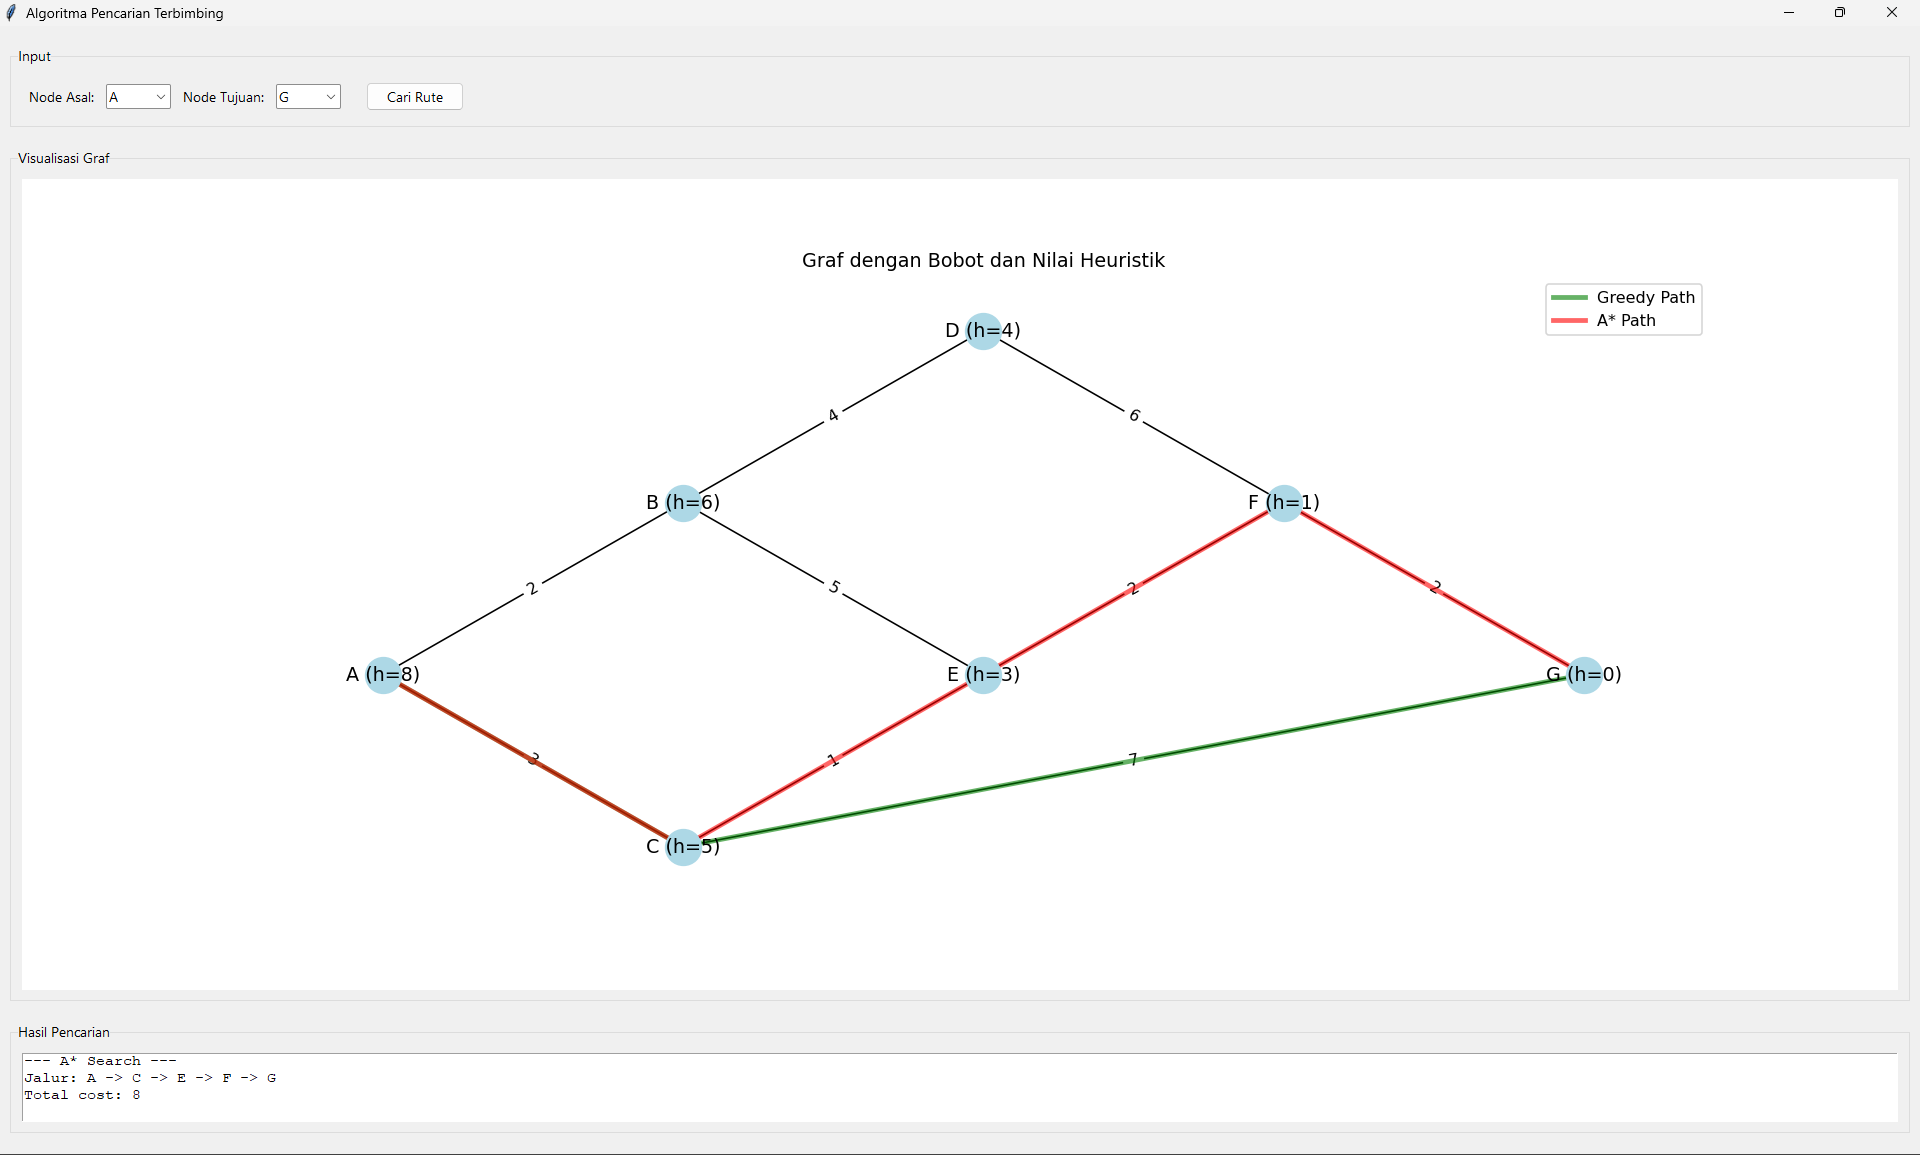
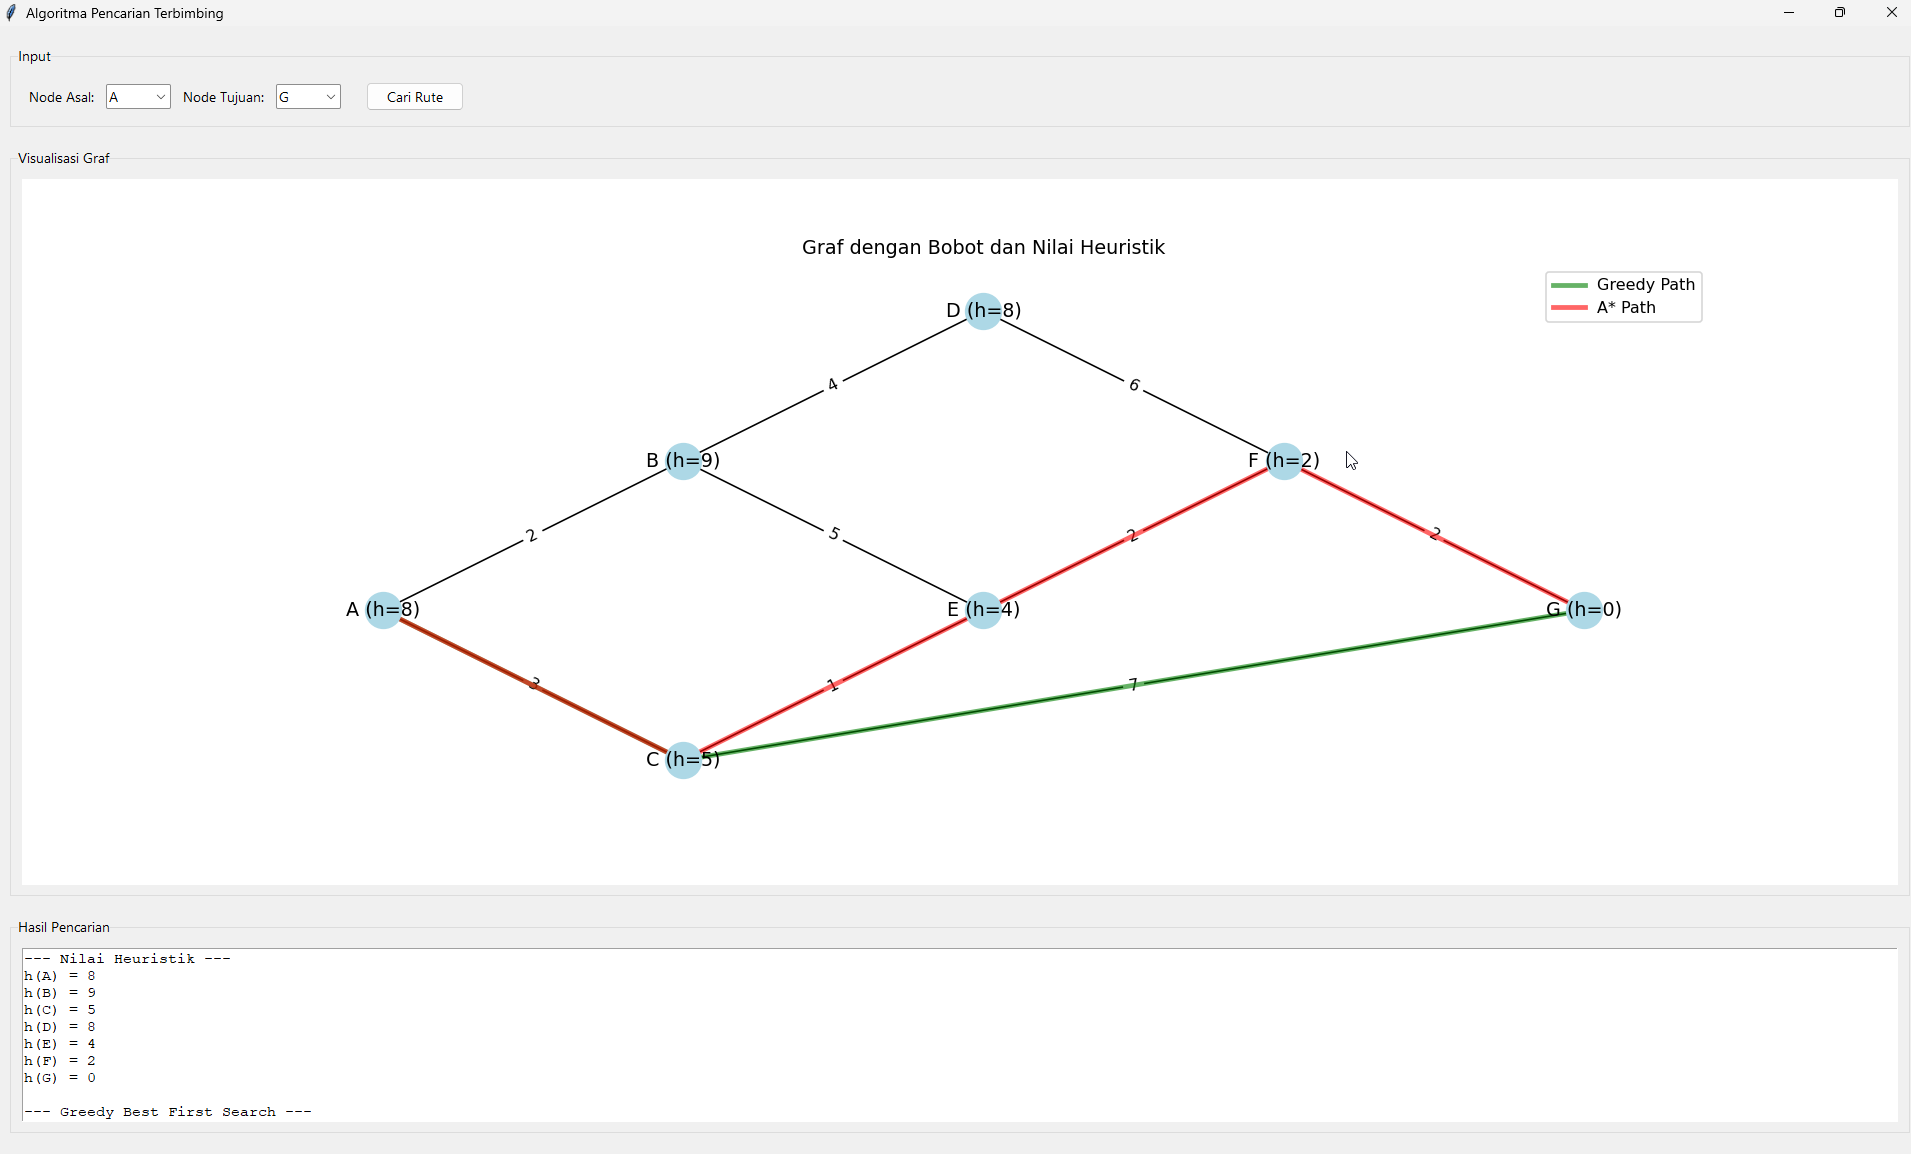
fix algorithm

diff --git a/main.py b/main.py
@@ -1,6 +1,6 @@
 """
 Program Algoritma Pencarian Terbimbing (Heuristic Search) dengan GUI
-Implementasi Greedy Best First Search dan A* Search dengan visualisasi map
+Menggunakan heuristik berdasarkan jarak antar node
 """
 
 import tkinter as tk
@@ -21,18 +21,6 @@ graph = {
     "G": {"C": 7, "F": 2}
 }
 
-# Nilai heuristik (jarak perkiraan) ke node tujuan 'G'
-# Makin kecil nilainya, makin dekat ke tujuan
-heuristic = {
-    "A": 8,
-    "B": 6,
-    "C": 5,
-    "D": 4,
-    "E": 3,
-    "F": 1,
-    "G": 0
-}
-
 # Posisi node untuk visualisasi
 node_positions = {
     "A": (0, 2),
@@ -43,6 +31,34 @@ node_positions = {
     "F": (3, 3),
     "G": (4, 2)
 }
+
+def calculate_heuristic(graph, goal):
+    """
+    Menghitung nilai heuristik berdasarkan jarak terpendek ke node tujuan
+    menggunakan algoritma Dijkstra
+    """
+    heuristic = {node: float('inf') for node in graph}
+    heuristic[goal] = 0
+    
+    # Menggunakan Dijkstra untuk menghitung jarak terpendek
+    queue = [(0, goal)]  # (distance, node)
+    visited = set()
+    
+    while queue and len(visited) < len(graph):
+        current_distance, current_node = heapq.heappop(queue)
+        
+        if current_node in visited:
+            continue
+            
+        visited.add(current_node)
+        
+        for neighbor, weight in graph[current_node].items():
+            distance = current_distance + weight
+            if distance < heuristic[neighbor]:
+                heuristic[neighbor] = distance
+                heapq.heappush(queue, (distance, neighbor))
+    
+    return heuristic
 
 def greedy_best_first_search(graph, start, goal, heuristic):
     """
@@ -124,6 +140,9 @@ class HeuristicSearchApp:
         self.root.title("Algoritma Pencarian Terbimbing")
         self.root.geometry("800x600")
         
+        # Nilai heuristik awal (diinisialisasi di awal)
+        self.heuristic = {node: 0 for node in graph}
+        
         # Frame utama
         main_frame = ttk.Frame(root, padding=10)
         main_frame.pack(fill=tk.BOTH, expand=True)
@@ -144,6 +163,9 @@ class HeuristicSearchApp:
         goal_combo = ttk.Combobox(input_frame, textvariable=self.goal_var, values=sorted(graph.keys()), width=5)
         goal_combo.grid(row=0, column=3, padx=5, pady=5)
         goal_combo.current(6)  # Default ke G
+        
+        # Hitung heuristik awal untuk tujuan default (G)
+        self.heuristic = calculate_heuristic(graph, "G")
         
         # Tombol cari
         search_button = ttk.Button(input_frame, text="Cari Rute", command=self.search_routes)
@@ -187,7 +209,8 @@ class HeuristicSearchApp:
         # Label node
         node_labels = {}
         for node in graph:
-            node_labels[node] = f"{node} (h={heuristic[node]})"
+            node_labels[node] = f"{node} (h={self.heuristic[node]})"
+        
         nx.draw_networkx_labels(G, node_positions, labels=node_labels)
         
         # Edge dan labelnya
@@ -232,14 +255,21 @@ class HeuristicSearchApp:
             messagebox.showerror("Error", "Harap pilih node asal dan tujuan!")
             return
         
-        # Jalankan algoritma pencarian
-        greedy_path, greedy_cost = greedy_best_first_search(graph, start, goal, heuristic)
-        astar_path, astar_cost = a_star_search(graph, start, goal, heuristic)
+        # Hitung nilai heuristik berdasarkan jarak ke node tujuan
+        self.heuristic = calculate_heuristic(graph, goal)
         
-        # Tampilkan hasil
+        # Tampilkan informasi heuristik
         self.result_text.delete(1.0, tk.END)
+        self.result_text.insert(tk.END, "--- Nilai Heuristik ---\n")
+        for node in sorted(self.heuristic.keys()):
+            self.result_text.insert(tk.END, f"h({node}) = {self.heuristic[node]}\n")
+        self.result_text.insert(tk.END, "\n")
         
-        # Hasil Greedy
+        # Jalankan algoritma pencarian
+        greedy_path, greedy_cost = greedy_best_first_search(graph, start, goal, self.heuristic)
+        astar_path, astar_cost = a_star_search(graph, start, goal, self.heuristic)
+        
+        # Tampilkan hasil Greedy
         self.result_text.insert(tk.END, "--- Greedy Best First Search ---\n")
         if greedy_path:
             self.result_text.insert(tk.END, f"Jalur: {' -> '.join(greedy_path)}\n")
@@ -247,7 +277,7 @@ class HeuristicSearchApp:
         else:
             self.result_text.insert(tk.END, f"Tidak ada jalur dari {start} ke {goal}\n\n")
         
-        # Hasil A*
+        # Tampilkan hasil A*
         self.result_text.insert(tk.END, "--- A* Search ---\n")
         if astar_path:
             self.result_text.insert(tk.END, f"Jalur: {' -> '.join(astar_path)}\n")

diff --git a/README.md b/README.md
@@ -1,54 +1,87 @@
-# Heuristic Search Visualization
+# Heuristic Search GUI with Tkinter
 
-Program GUI sederhana untuk memvisualisasikan dua algoritma pencarian terbimbing (*Heuristic Search*):  
+Program ini adalah aplikasi Python dengan antarmuka grafis (GUI) yang mendemonstrasikan dua algoritma pencarian berbasis heuristik, yaitu:
+
 - **Greedy Best First Search**
-- **A\* (A-Star) Search**
+- **A* Search**
 
-Visualisasi dilakukan pada graf berbobot dengan nilai heuristik untuk memperkirakan jarak ke tujuan.
+Aplikasi ini menggunakan `Tkinter` untuk GUI, `NetworkX` untuk struktur graf, dan `Matplotlib` untuk visualisasi graf.
 
 ## Fitur
 
-- Input node asal dan node tujuan
-- Visualisasi graf dan jalur pencarian
-- Menampilkan total cost dan jalur yang ditemukan oleh kedua algoritma
-- Dibuat dengan Python, menggunakan `Tkinter` untuk GUI dan `matplotlib` + `networkx` untuk visualisasi
+- Visualisasi graf interaktif lengkap dengan bobot dan nilai heuristik tiap node.
+- Penghitungan nilai heuristik otomatis menggunakan algoritma Dijkstra.
+- Perbandingan hasil pencarian antara algoritma Greedy dan A*.
+- Tampilan rute pencarian langsung di graf.
 
-## Instalasi
+## truktur Graf
 
-Pastikan Python dan pip sudah terinstall. Lalu install dependency berikut:
+Graf yang digunakan bersifat statis dan didefinisikan dalam bentuk dictionary Python seperti ini:
+
+```python
+graph = {
+    "A": {"B": 2, "C": 3},
+    "B": {"A": 2, "D": 4, "E": 5},
+    ...
+}
+```
+
+Posisi node untuk visualisasi ditentukan manual menggunakan koordinat:
+
+```python
+node_positions = {
+    "A": (0, 2),
+    "B": (1, 3),
+    ...
+}
+```
+
+## Cara Menjalankan
+
+1. Pastikan Python sudah terinstal (direkomendasikan Python 3.8+).
+2. Instal dependensi yang dibutuhkan:
 
 ```bash
 pip install matplotlib networkx
 ```
 
-## Menjalankan Program
+3. Jalankan program:
 
 ```bash
 python nama_file.py
 ```
 
-> Ganti `nama_file.py` dengan nama file script kamu (misalnya `heuristic_search_gui.py`)
+## Algoritma yang Digunakan
 
-## Contoh
+### Greedy Best First Search
+- Memilih node dengan nilai heuristik terendah.
+- Tidak memperhatikan total cost (biaya perjalanan sejauh ini).
 
-- Node Asal: `A`
-- Node Tujuan: `G`
+### A* Search
+- Menggunakan formula: `f(n) = g(n) + h(n)`
+    - `g(n)` = total cost sejauh ini
+    - `h(n)` = heuristik ke tujuan
+- Menggabungkan strategi eksplorasi dan eksploitatif.
 
-Program akan menampilkan hasil pencarian dan menandai jalur:
-- **Hijau**: jalur dari Greedy Best First Search
-- **Merah**: jalur dari A\* Search
-
-## Struktur Graf
-
-Graf didefinisikan secara manual dalam bentuk dictionary di kode, termasuk:
-- **Bobot antar node**
-- **Nilai heuristik**
-- **Koordinat node untuk visualisasi**
-
-## Screenshot
+## Tampilan
 
 ![demo](/assets/demo.png)
 
+Antarmuka program menampilkan:
+- Dropdown untuk memilih node awal dan tujuan
+- Tombol "Cari Rute" untuk menjalankan algoritma
+- Visualisasi graf dengan warna:
+    - 🔴 A* Path
+    - 🟢 Greedy Path
+- Informasi heuristik dan hasil jalur di bawah graf
+
+## Dependensi
+
+- `tkinter` (bawaan Python)
+- `networkx`
+- `matplotlib`
+- `heapq` (bawaan Python)
+
 ## Lisensi
 
-Proyek ini bebas digunakan untuk pembelajaran dan pengembangan pribadi. 
+Proyek ini bebas digunakan untuk keperluan pembelajaran dan penelitian.
